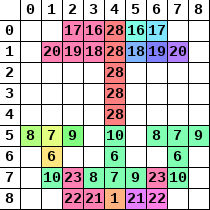
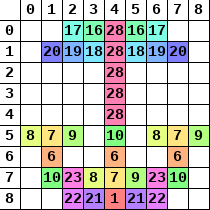
Fix correction détaillée

Changed region(s): [[0.0857, 0.0857, 1.0, 1.0]]

diff --git a/exercices/libs/PyxelArt.py b/exercices/libs/PyxelArt.py
@@ -47,7 +47,7 @@ class PyxelArt :
             line = inspect.currentframe().f_back.f_lineno
             if not line in self.lines :
                 self.lines.append(line)
-            color = 'hsl(%d, 100%%, 75%%)' % (int(len(self.lines)/15*360))
+            color = 'hsl(%d, 100%%, 75%%)' % (int(self.lines.index(line)/15*360))
         else :
             color = (150, 150, 150)
         self.draw.rectangle([
